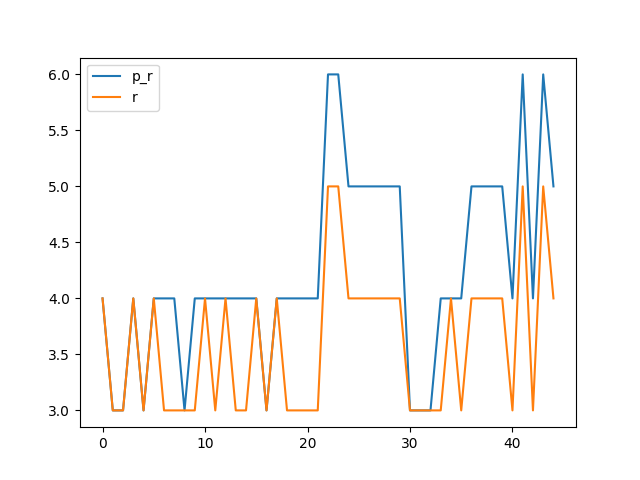
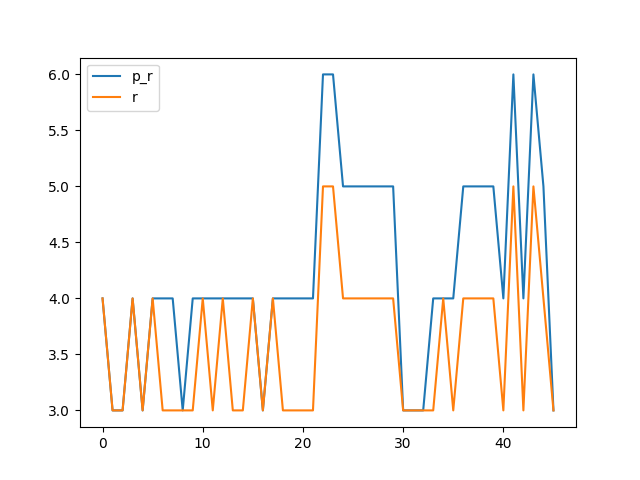
0x002D

diff --git a/benchmark.md b/benchmark.md
@@ -88,16 +88,18 @@ Synthesising 0x002B pexact:400 r=6 exact:440 r=5
 
 Synthesising 0x002C pexact:310 r=5 exact:344 r=4
 
+Synthesising 0x002D pexact:224 r=3 exact:224 r=3
+
 ```mermaid
 xychart-beta
     title "Comparison powertwoexact twoexact"
-    x-axis [0, 1, 2, 3, 4, 5, 6, 7, 8, 9, 10, 11, 12, 13, 14, 15, 16, 17, 18, 19, 20, 21, 22, 23, 24, 25, 26, 27, 28, 29, 30, 31, 32, 33, 34, 35, 36, 37, 38, 39, 40, 41, 42, 43, 44]
+    x-axis [0, 1, 2, 3, 4, 5, 6, 7, 8, 9, 10, 11, 12, 13, 14, 15, 16, 17, 18, 19, 20, 21, 22, 23, 24, 25, 26, 27, 28, 29, 30, 31, 32, 33, 34, 35, 36, 37, 38, 39, 40, 41, 42, 43, 44, 45]
     y-axis "Switching Activity" 0-->464
-    line [96, 152, 152, 182, 152, 182, 208, 182, 152, 208, 182, 182, 182, 182, 182, 182, 152, 182, 208, 182, 208, 182, 406, 400, 336, 310, 310, 304, 310, 304, 224, 216, 152, 208, 182, 182, 336, 310, 310, 304, 208, 406, 182, 400, 310]
-    line [192, 152, 152, 312, 152, 352, 224, 192, 192, 224, 352, 216, 320, 216, 216, 352, 152, 326, 224, 216, 224, 192, 464, 448, 352, 344, 344, 320, 336, 352, 224, 216, 192, 224, 318, 192, 352, 344, 344, 312, 224, 448, 192, 440, 344]
-    line [232.93333333333334, 232.93333333333334, 232.93333333333334, 232.93333333333334, 232.93333333333334, 232.93333333333334, 232.93333333333334, 232.93333333333334, 232.93333333333334, 232.93333333333334, 232.93333333333334, 232.93333333333334, 232.93333333333334, 232.93333333333334, 232.93333333333334, 232.93333333333334, 232.93333333333334, 232.93333333333334, 232.93333333333334, 232.93333333333334, 232.93333333333334, 232.93333333333334, 232.93333333333334, 232.93333333333334, 232.93333333333334, 232.93333333333334, 232.93333333333334, 232.93333333333334, 232.93333333333334, 232.93333333333334, 232.93333333333334, 232.93333333333334, 232.93333333333334, 232.93333333333334, 232.93333333333334, 232.93333333333334, 232.93333333333334, 232.93333333333334, 232.93333333333334, 232.93333333333334, 232.93333333333334, 232.93333333333334, 232.93333333333334, 232.93333333333334, 232.93333333333334]
-    line [277.24444444444447, 277.24444444444447, 277.24444444444447, 277.24444444444447, 277.24444444444447, 277.24444444444447, 277.24444444444447, 277.24444444444447, 277.24444444444447, 277.24444444444447, 277.24444444444447, 277.24444444444447, 277.24444444444447, 277.24444444444447, 277.24444444444447, 277.24444444444447, 277.24444444444447, 277.24444444444447, 277.24444444444447, 277.24444444444447, 277.24444444444447, 277.24444444444447, 277.24444444444447, 277.24444444444447, 277.24444444444447, 277.24444444444447, 277.24444444444447, 277.24444444444447, 277.24444444444447, 277.24444444444447, 277.24444444444447, 277.24444444444447, 277.24444444444447, 277.24444444444447, 277.24444444444447, 277.24444444444447, 277.24444444444447, 277.24444444444447, 277.24444444444447, 277.24444444444447, 277.24444444444447, 277.24444444444447, 277.24444444444447, 277.24444444444447, 277.24444444444447]
-    bar [80, 60, 60, 80, 60, 80, 80, 80, 60, 80, 80, 80, 80, 80, 80, 80, 60, 80, 80, 80, 80, 80, 120, 120, 100, 100, 100, 100, 100, 100, 60, 60, 60, 80, 80, 80, 100, 100, 100, 100, 80, 120, 80, 120, 100]
-    bar [80, 60, 60, 80, 60, 80, 60, 60, 60, 60, 80, 60, 80, 60, 60, 80, 60, 80, 60, 60, 60, 60, 100, 100, 80, 80, 80, 80, 80, 80, 60, 60, 60, 60, 80, 60, 80, 80, 80, 80, 60, 100, 60, 100, 80]
+    line [96, 152, 152, 182, 152, 182, 208, 182, 152, 208, 182, 182, 182, 182, 182, 182, 152, 182, 208, 182, 208, 182, 406, 400, 336, 310, 310, 304, 310, 304, 224, 216, 152, 208, 182, 182, 336, 310, 310, 304, 208, 406, 182, 400, 310, 224]
+    line [192, 152, 152, 312, 152, 352, 224, 192, 192, 224, 352, 216, 320, 216, 216, 352, 152, 326, 224, 216, 224, 192, 464, 448, 352, 344, 344, 320, 336, 352, 224, 216, 192, 224, 318, 192, 352, 344, 344, 312, 224, 448, 192, 440, 344, 224]
+    line [232.7391304347826, 232.7391304347826, 232.7391304347826, 232.7391304347826, 232.7391304347826, 232.7391304347826, 232.7391304347826, 232.7391304347826, 232.7391304347826, 232.7391304347826, 232.7391304347826, 232.7391304347826, 232.7391304347826, 232.7391304347826, 232.7391304347826, 232.7391304347826, 232.7391304347826, 232.7391304347826, 232.7391304347826, 232.7391304347826, 232.7391304347826, 232.7391304347826, 232.7391304347826, 232.7391304347826, 232.7391304347826, 232.7391304347826, 232.7391304347826, 232.7391304347826, 232.7391304347826, 232.7391304347826, 232.7391304347826, 232.7391304347826, 232.7391304347826, 232.7391304347826, 232.7391304347826, 232.7391304347826, 232.7391304347826, 232.7391304347826, 232.7391304347826, 232.7391304347826, 232.7391304347826, 232.7391304347826, 232.7391304347826, 232.7391304347826, 232.7391304347826, 232.7391304347826]
+    line [276.0869565217391, 276.0869565217391, 276.0869565217391, 276.0869565217391, 276.0869565217391, 276.0869565217391, 276.0869565217391, 276.0869565217391, 276.0869565217391, 276.0869565217391, 276.0869565217391, 276.0869565217391, 276.0869565217391, 276.0869565217391, 276.0869565217391, 276.0869565217391, 276.0869565217391, 276.0869565217391, 276.0869565217391, 276.0869565217391, 276.0869565217391, 276.0869565217391, 276.0869565217391, 276.0869565217391, 276.0869565217391, 276.0869565217391, 276.0869565217391, 276.0869565217391, 276.0869565217391, 276.0869565217391, 276.0869565217391, 276.0869565217391, 276.0869565217391, 276.0869565217391, 276.0869565217391, 276.0869565217391, 276.0869565217391, 276.0869565217391, 276.0869565217391, 276.0869565217391, 276.0869565217391, 276.0869565217391, 276.0869565217391, 276.0869565217391, 276.0869565217391, 276.0869565217391]
+    bar [80, 60, 60, 80, 60, 80, 80, 80, 60, 80, 80, 80, 80, 80, 80, 80, 60, 80, 80, 80, 80, 80, 120, 120, 100, 100, 100, 100, 100, 100, 60, 60, 60, 80, 80, 80, 100, 100, 100, 100, 80, 120, 80, 120, 100, 60]
+    bar [80, 60, 60, 80, 60, 80, 60, 60, 60, 60, 80, 60, 80, 60, 60, 80, 60, 80, 60, 60, 60, 60, 100, 100, 80, 80, 80, 80, 80, 80, 60, 60, 60, 60, 80, 60, 80, 80, 80, 80, 60, 100, 60, 100, 80, 60]
 ```
 
